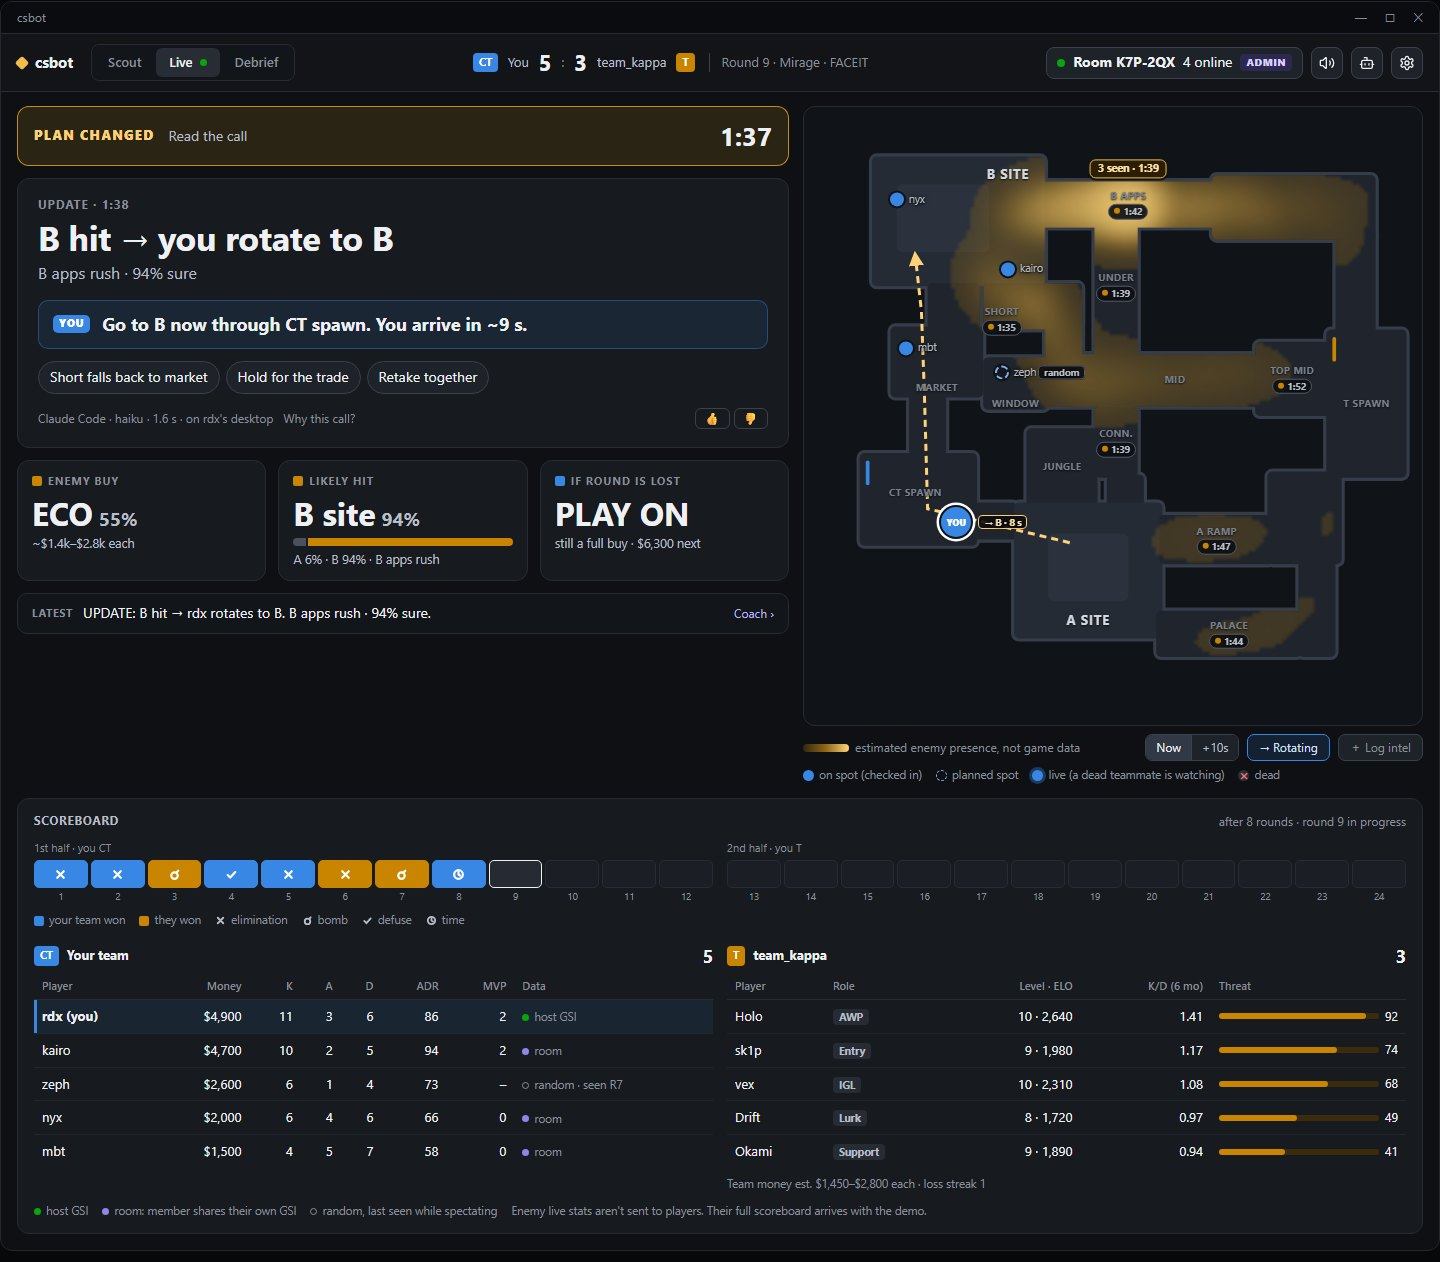
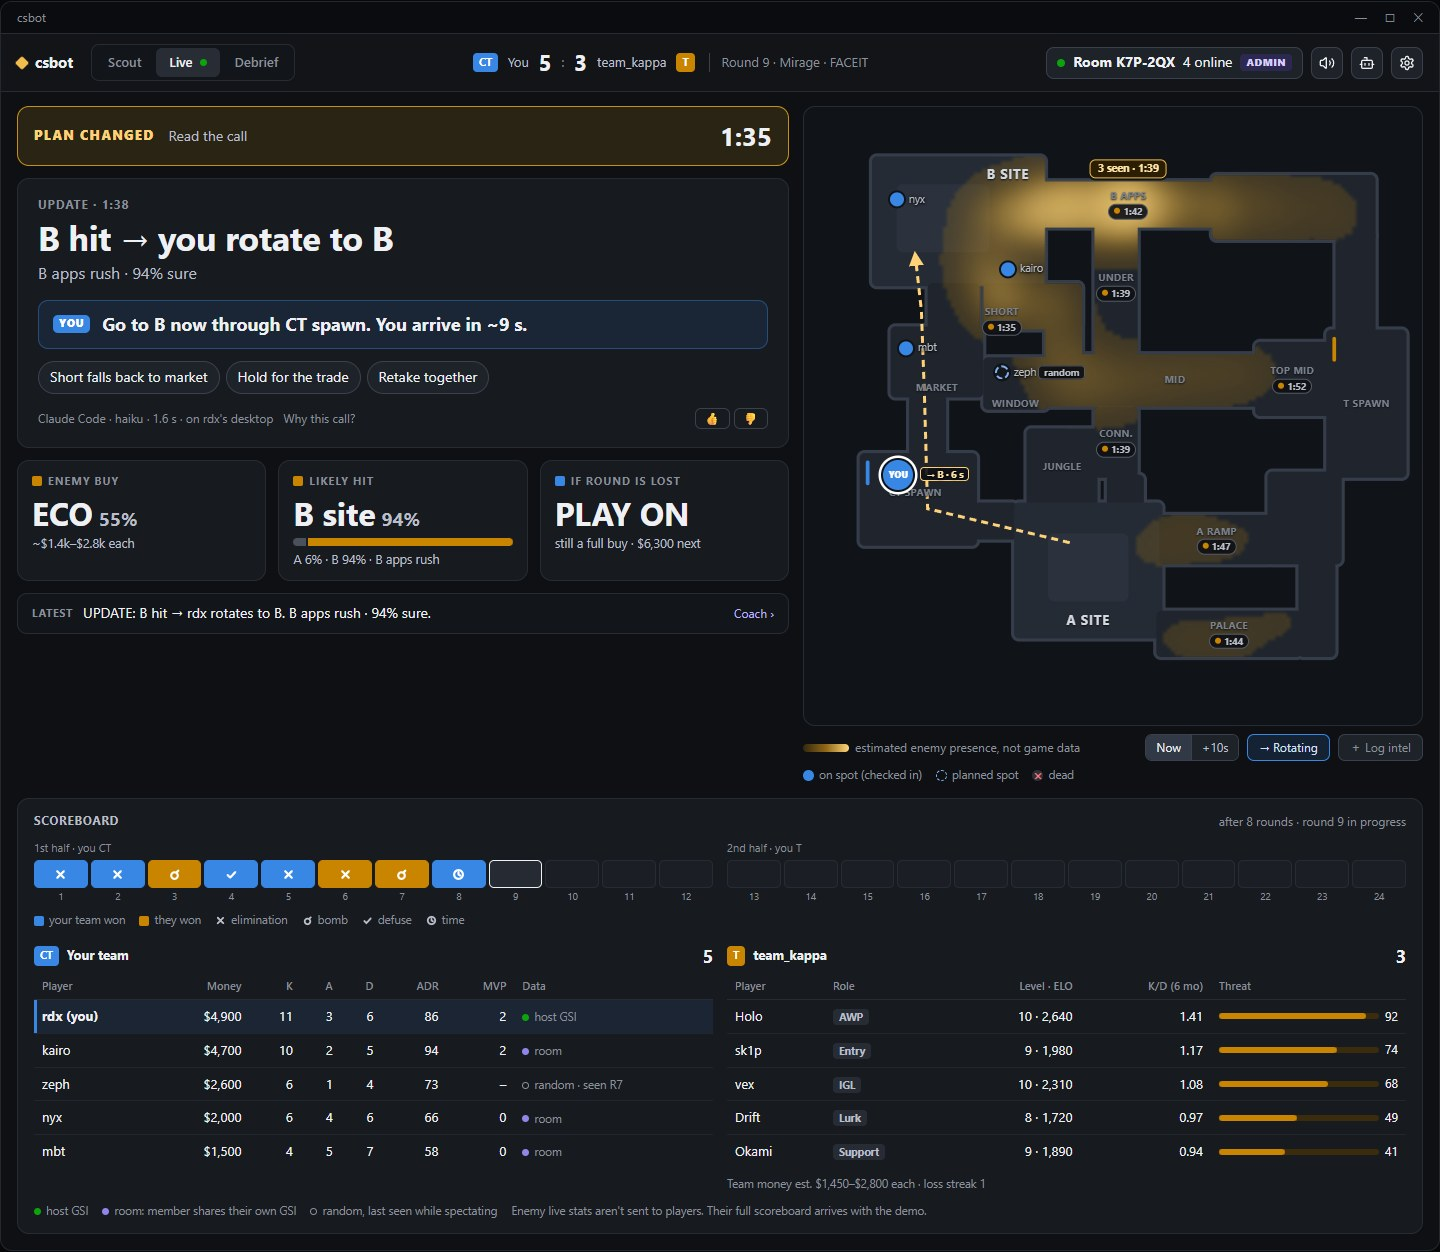
Probe result: GSI sends players no positions, alive or dead
The GSI probe ran through a real competitive match (de_dust2, 596
payloads): no player.position while alive (0/299) or while watching a
teammate (0/180), and no allplayers. Squad markers stay planned spots,
check-ins and rotations; the prototype loses its 'live via a dead
teammate' marker and the proposal records the result.

diff --git a/docs/prototype/index.html b/docs/prototype/index.html
@@ -402,20 +402,16 @@ fieldset:disabled .card{opacity:.75}
 .msg.human.other{border-left-color:#5d7fb0;background:var(--sunken)}
 .mk.st-planned i{background:rgba(16,19,23,.75);border:2px dashed #7fb0ef}
 .mk.me.st-planned i{border:2.5px dashed #fff;background:rgba(57,135,229,.35)}
-.mk.st-live i{animation:livepulse 1.4s ease-out infinite}
-@keyframes livepulse{0%{box-shadow:0 0 0 0 rgba(57,135,229,.75),0 0 0 2px var(--mapbg)}100%{box-shadow:0 0 0 11px rgba(57,135,229,0),0 0 0 2px var(--mapbg)}}
 .mk.st-dead i{background:#2a2f38;color:#ff8a8a;display:grid;place-items:center;font-style:normal;font-size:10px;font-weight:800}
 .mk.st-dead span{color:var(--muted)}
-.mk.st-rot span,.mk.st-live span{color:var(--ink)}
+.mk.st-rot span{color:var(--ink)}
 .mk .tag{font-size:9.5px;font-weight:750;padding:0 5px;border-radius:4px;background:rgba(14,16,20,.9);border:1px solid #545b68;margin-left:2px}
-.mk.st-live .tag{border-color:#7fb0ef;color:#cfe2fb}
 .mk.st-rot .tag{border-color:#ffd27a;color:#ffe2a6}
 .mapkey{display:flex;flex-wrap:wrap;gap:4px 14px;margin:6px auto 0;max-width:620px;font-size:11.5px;color:var(--muted)}
 .mapkey span{display:inline-flex;align-items:center;gap:5px}
 .mapkey i{display:inline-block;width:11px;height:11px;border-radius:50%;flex:none}
 .mapkey .k-set{background:var(--ct)}
 .mapkey .k-plan{border:1.5px dashed #7fb0ef}
-.mapkey .k-live{background:var(--ct);box-shadow:0 0 0 3px rgba(57,135,229,.35)}
 .mapkey .k-dead{background:#2a2f38;color:#ff8a8a;font-size:8px;font-style:normal;font-weight:800;display:grid;place-items:center}
 .btn.spot.on{border-color:var(--ct);color:#cfe2fb;background:rgba(57,135,229,.15)}
 </style>
@@ -485,7 +481,7 @@ fieldset:disabled .card{opacity:.75}
             <button class="btn spot" id="btnSpot" type="button">✓ On my spot</button>
             <button class="btn intel" id="btnIntel" type="button">＋ Log intel</button>
           </div>
-          <div class="mapkey"><span><i class="k-set"></i>on spot (checked in)</span><span><i class="k-plan"></i>planned spot</span><span><i class="k-live"></i>live (a dead teammate is watching)</span><span><i class="k-dead">✕</i>dead</span></div>
+          <div class="mapkey"><span><i class="k-set"></i>on spot (checked in)</span><span><i class="k-plan"></i>planned spot</span><span><i class="k-dead">✕</i>dead</span></div>
         </div>
       </div>
 
@@ -775,14 +771,12 @@ const ROT={
   toB:{who:'rdx',to:[180,215],eta:9,pts:[[430,705],[200,650],[195,470],[190,330],[180,215]],path:'M430 705 L200 650 L195 470 L190 330 L180 240'},
   toA:{who:'nyx',to:[400,790],eta:10,pts:[[150,150],[230,330],[195,470],[200,640],[300,720],[400,790]],path:'M150 150 L230 330 L195 470 L200 640 L300 720 L390 782'},
 };
-/* squad positions: alive players' positions are not in their own GSI, so a marker is the planned spot until the player checks in.
-   A dead room member watching a teammate makes that teammate's position live (GSI follows the watched player). */
+/* squad positions: GSI sends players no positions in a live match, alive or dead (probe, 2026-10-21). A marker is the
+   planned spot until the player checks in, then follows their rotation. */
 const CHECKIN={rdx:8,kairo:6,nyx:7,mbt:9};
-const LIVE_PATH={mbt:[[300,668,52],[230,648,57],[205,632,61],[290,690,67],[380,742,74],[400,760,82]]};
 function along(pts,f){let L=0;const seg=[];for(let i=1;i<pts.length;i++){const d=Math.hypot(pts[i][0]-pts[i-1][0],pts[i][1]-pts[i-1][1]);seg.push(d);L+=d;}
   let r=f*L;for(let i=0;i<seg.length;i++){if(r<=seg[i]){const g=seg[i]?r/seg[i]:0;return [pts[i][0]+(pts[i+1][0]-pts[i][0])*g,pts[i][1]+(pts[i+1][1]-pts[i][1])*g];}r-=seg[i];}
   return pts[pts.length-1].slice(0,2);}
-function pathAt(path,t){if(t<=path[0][2])return [path[0][0],path[0][1]];for(let i=1;i<path.length;i++){const a=path[i-1],b=path[i];if(t<=b[2]){const g=(t-a[2])/(b[2]-a[2]);return [a[0]+(b[0]-a[0])*g,a[1]+(b[1]-a[1])*g];}}const l=path[path.length-1];return [l[0],l[1]];}
 /* every call carries one job per player; each viewer sees their own as the YOU line */
 const JOBS={
   antieco:{rdx:'A site alone. Play deep and fall back to CT on contact.',kairo:'B bench. Hold the apps exit, long angles only.',nyx:'B van. Anchor, never peek apps.',mbt:'Market. Rotate to whichever site gets hit.',zeph:'Window AWP (random: his usual spot).'},
@@ -974,8 +968,8 @@ function stepSim(dt){
     if(!ev.timing&&S.liveT>=2){ev.timing=1;addMsg('engine','TIMING','Earliest contact: top mid '+tClock('topmid')+' · palace '+tClock('palace')+' · B apps '+tClock('bapps')+'.','engine · instant',{noTicker:true});}
     if(sc){sc.intel.forEach((it,i)=>{if(!ev['i'+i]&&S.liveT>=it.t&&S.phase==='live'){ev['i'+i]=1;addIntel(it.zone,it.k,'hotkey',it.by);}});
       if(sc.youDie&&!ev.die&&S.liveT>=sc.youDie){ev.die=1;y.hp=0;y.armor=0;y.d++;y.kept=false;
-        const at=markerPos(setupOf(HOST));S.pos[HOST]={st:'dead',x:at[0],y:at[1]};S.pos.mbt={st:'live',via:HOST};
-        addMsg('engine','SPOTTER','rdx died and is watching mbt. His GSI now follows mbt, so mbt\'s position is live on everyone\'s map.','engine · instant');}}
+        const at=markerPos(setupOf(HOST));S.pos[HOST]={st:'dead',x:at[0],y:at[1]};
+        addMsg('engine','DIED','rdx died. Dead players watch a teammate and keep logging what they see: intel still moves everyone\'s forecast.','engine · instant');}}
     if(S.phase==='live'){
       if(sc&&sc.plant&&S.liveT>=sc.plant.t){S.phase='bomb';S.phaseT=0;S.plantedSite=sc.plant.site;
         const fc=siteForecast(curPost());const p=sc.plant.site==='A'?Math.max(fc.A,.6):Math.max(fc.B,.6);
@@ -1064,7 +1058,6 @@ function setupOf(n){const setup=SETUPS[(S.call&&S.call.setup)]||SETUPS.std;retur
 function markerPos(p){
   const st=S.pos[p.n]||{st:'planned'},rot=S.call&&S.call.rot?ROT[S.call.rot]:null;
   if(st.st==='dead')return [st.x,st.y];
-  if(st.st==='live'&&LIVE_PATH[p.n])return pathAt(LIVE_PATH[p.n],S.liveT);
   if(rot&&rot.who===p.n)return st.st==='rot'?along(rot.pts,clamp((S.liveT-st.t0)/rot.eta,0,1)):rot.to;
   return [p.x,p.y];
 }
@@ -1079,9 +1072,8 @@ function renderMarkers(){
     const rnd=ROOM.randoms.includes(p.n),me=p.n===S.me,stt=st.st;
     let tag='';
     if(stt==='rot'){const R=Object.values(ROT).find(r=>r.who===p.n);tag='<b class="tag">→ '+(R===ROT.toB?'B':'A')+' · '+Math.max(0,Math.ceil(R.eta-(S.liveT-st.t0)))+' s</b>';}
-    else if(stt==='live')tag='<b class="tag">live · via '+st.via+'</b>';
     else if(rnd)tag='<b class="tag">random</b>';
-    const title=(me?'You':p.n)+' · '+p.l+' · '+({planned:'planned spot',set:'checked in',rot:'rotating',live:'live position via '+st.via,dead:'dead'}[stt]);
+    const title=(me?'You':p.n)+' · '+p.l+' · '+({planned:'planned spot',set:'checked in',rot:'rotating',dead:'dead'}[stt]);
     h+=me?'<div class="mk me st-'+stt+'" style="left:'+x/10+'%;top:'+y/10+'%" title="'+title+'"><i>'+(stt==='dead'?'✕':'YOU')+'</i>'+(tag?'<span>'+tag+'</span>':'')+'</div>'
          :'<div class="mk st-'+stt+'" style="left:'+x/10+'%;top:'+y/10+'%" title="'+title+'"><i>'+(stt==='dead'?'✕':'')+'</i><span>'+p.n+tag+'</span></div>';}
   $('#mkLayer').innerHTML=h;

diff --git a/docs/PROPOSAL.md b/docs/PROPOSAL.md
@@ -51,7 +51,7 @@ The idea is sound and buildable. Five hard constraints shape the design.
 | Recognize the current game (Premier, FACEIT, …) | ✅ | GSI `map.mode`/`map.name` + FACEIT match lookup (fallback: paste the room link) |
 | Info on all 10 players | ✅ FACEIT · ⚠ Premier | FACEIT gives the full roster with Steam IDs. Premier: GSI has no roster. Candidates are the console `status` output (via `-condebug`, **to verify**), the room members, and demos after the match. |
 | Opponent stats, preferred maps | ✅ | FACEIT per-map stats, match and veto history; Leetify ratings; demo tendencies |
-| Minimap with teammates' positions | ⚠ room members, partly live | A player's own GSI has no position while they're alive. Room markers combine planned spots, one-key check-ins, rotations with a countdown, and **live dots for teammates a dead room member is watching**. If the probe shows CS2 does send your own position, every member sharing GSI becomes a live dot. See section 3.7. |
+| Minimap with teammates' positions | ⚠ room members, reported | The probe settled it in a real match: GSI sends players **no positions at all**, alive or dead. Room markers combine planned spots, one-key check-ins, rotations with a countdown, and deaths. Exact positions come in the post-match replay. See section 3.7. |
 | Fog of war / enemy heatmap | ✅ as a forecast | Prior from demos + route timing + Bayesian update from the room's intel |
 | Team budget | ✅ | Exact for every room member who shares their own GSI. Randoms come from the last time someone spectated them. |
 | Enemy budget / eco detection | ✅ | GSI gives both teams' score, `consecutive_round_losses`, and how each round was won. Income model + spend priors, calibrated against demos. |
@@ -204,8 +204,8 @@ Every source of teammate positions we considered:
 
 | Source | Exact? | Status |
 |---|---|---|
-| A player's own GSI while alive (`player_position`) | yes | **Probably not sent.** Library docs list position as spectator-only. `tools/gsi-probe` settles it in 10 minutes. If it *is* sent, every member sharing GSI becomes a live dot, and the rest of this table becomes a fallback. |
-| A **dead room member's** GSI while they watch a teammate | yes | Likely, since GSI then follows the watched player as an in-eye observer. Probe result 2. In competitive, dead players can only watch their own team, so this never exposes an enemy. |
+| A player's own GSI while alive (`player_position`) | yes | **Not sent.** Probe, competitive de_dust2, 2026-10-21: 0 of 299 payloads while alive had a position, even with `player_position` requested. |
+| A **dead room member's** GSI while they watch a teammate | yes | **Not sent.** Same probe: GSI follows the watched teammate (name, team, state) but 0 of 180 payloads had a position. Dead members still log intel from what they watch. |
 | A coach seat (FACEIT/ESEA coach slot) in the room | yes, whole team | Optional for squads with a coach. Platform rules vary, and only our own team's data is kept. |
 | Planned spot from the call (the player's job) | no, planned | Always available. Drawn as a dashed marker. |
 | One-key check-ins: on my spot (Num5), rotating A/B (Num4/6), tap on phone, voice "I'm short" | no, reported | Always available. Solid marker. A rotation animates along the route with a countdown (rotation time from demos). |
@@ -572,7 +572,7 @@ Everything above ships in V1. The milestones exist so the squad can dogfood earl
 
 ### M0: technical spikes (each with a go/no-go)
 1. **GSI as a player** on FACEIT and Premier. Confirm the fields, the `map.mode` value, and latency. **Run `tools/gsi-probe` first.** It settles squad positions (section 3.7): is your own position sent while alive, and is the watched teammate's position sent while dead?
-   - *Status:* the probe is installed on the owner's PC and waiting for one real match.
+   - *Status:* done (2026-10-21, competitive de_dust2, 596 payloads). No position while alive (0/299) or while watching a teammate (0/180), and no `allplayers`. Squad markers stay planned spots, check-ins and rotations (section 3.7).
 2. ~~**GSI to a remote HTTPS URL.**~~ Dropped: with no relay, there's nothing for a web member's CS2 to post to. Members share GSI through the desktop app.
 3. **Premier roster** from `status` / `-condebug`.
    - *Status:* needs one `status` in a real match. The only `console.log` on the PC is from a map-editor session.
@@ -623,7 +623,7 @@ Everything above ships in V1. The milestones exist so the squad can dogfood earl
 | Risk | Mitigation |
 |---|---|
 | Valve changes GSI fields | Recorder corpus + contract tests. Fields and rules live in data files. |
-| No positions while alive *and* none while dead (probe 1 and 2 = NO) | Squad markers rely on planned spots, check-ins, and rotation timing. Exact positions come in the post-match replay. |
+| No positions while alive *and* none while dead (**confirmed** by the probe, 2026-10-21) | Squad markers rely on planned spots, check-ins, and rotation timing. Exact positions come in the post-match replay. |
 | No Premier roster source | FACEIT-first. Premier uses the room members + post-match learning. |
 | Anthropic terms or plan usage change | Per-match budgets and member quotas. API-key mode on the same code path. |
 | Direct connection fails on strict networks | Same-LAN and most home networks connect directly. Fallbacks: the host forwards traffic when its router allows UPnP, or the squad runs open-source coturn. M2 measures the failure rate. |

diff --git a/tools/gsi-probe/README.md b/tools/gsi-probe/README.md
@@ -4,6 +4,8 @@ A 10-minute test that decides how the squad-positions feature works. It answers 
 
 1. Does CS2 send **your own position** while you're alive? If yes, room members can share their live position.
 2. Does it send **the teammate you're watching** while you're dead? If yes, dead room members become live spotters.
+
+**Result (2026-10-21, competitive de_dust2, 596 payloads):** no to both, and no `allplayers`. See PROPOSAL section 3.7.
 3. Does `allplayers` ever show up while you're playing or dead? If yes, the room-wide spectator guard must drop it.
 
 The probe listens on `127.0.0.1` only, never sends anything anywhere, and needs Node 18+.
